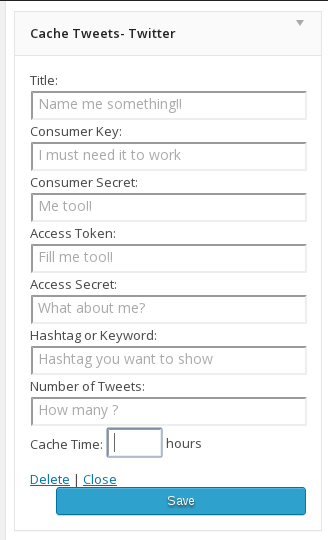
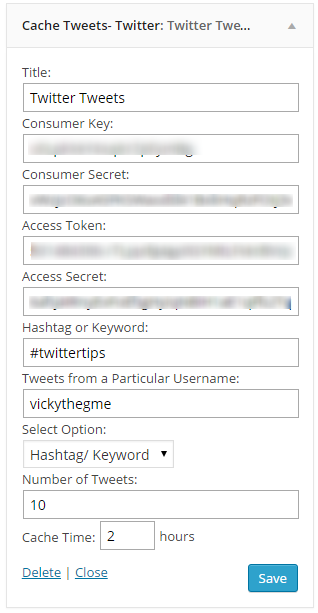
User Timeline Tweets Feature Added
git-svn-id: https://plugins.svn.wordpress.org/cache-tweets-widget/trunk@1186093 b8457f37-d9ea-0310-8a92-e5e31aec5664

Changed region(s): [[0.0566, 0.0, 0.9906, 1.0], [0.0, 0.0, 0.0283, 0.9778], [0.9057, 0.0296, 0.934, 0.0593]]

diff --git a/css/vistyle.css b/css/vistyle.css
@@ -13,12 +13,9 @@ a.vip {
 }
 a.vip:hover{
 	color:#890000;
-	opacity : 3;
-	zoom:1.2;
-	
+	opacity : 3;	
 }
 .viname:hover {
-	zoom:1.2;
 	color:#4F270B;
 	opacity : 1.6;
 	

diff --git a/widget.php b/widget.php
@@ -14,111 +14,133 @@ class vitweet_widget extends WP_Widget {
 /**
 	 * Register widget with WordPress.
 	 */
-	function __construct() {
-		parent::__construct(
+function __construct() {
+	parent::__construct(
 			'visearch_tweets_widget', // Base ID
 			__('Cache Tweets- Twitter', 'text_domain'), // Name
 			array( 'description' => __( 'Tweets widget that gets the tweets from the search api with hashtags', 'text_domain' ), ) // Args
+			);
+}
+
+function vitweet_widget() {
+	$widget_ops = array( 'classname' => 'search_tweets_widget', 'description' => 'Tweets widget that gets the tweets from the search api with hashtags' );
+	$control_ops = array( 'width' => 200, 'height' => 250, 'id_base' => 'vitweet_wid' );
+	$this->WP_Widget( 'Swidget_class', 'Cache Tweets- Twitter', $widget_ops, $control_ops );
+}
+
+function widget( $args, $instance ) {
+	extract( $args );
+	$consumer_key = $instance['viconsumer_key'];
+	$consumer_secret = $instance['viconsumer_secret'];
+	$oauth_token = $instance['viaccess_token'];
+	$oauth_secret = $instance['viaccess_secret'];
+	$hashtag = $instance['vihashtags'];
+	$username= $instance['viusername'];
+	$select_option= $instance['viselect_option'];
+	$count = $instance['vicount'];
+	$vicache = $instant['vicache'];
+	echo $before_widget;
+
+	$title = apply_filters('widget_title', $instance['title'] );
+	if ( $title ) {
+		echo $before_title . $title . $after_title;
+	}
+	$visearch_tweets_cache = get_option('visearch_tweets_cache');
+	$visearch_tweets_hashtag = get_option('visearch_tweets_hashtag');
+	$visearch_tweets_username = get_option('visearch_tweets_username');
+	$visearch_tweets_select_option = get_option('visearch_tweets_select_option');
+	$visearch_tweets_userkey = get_option('widget_visearch_tweets_widget');
+	$visearch_tweets_details = get_option('visearch_tweets_details');
+	$timechange = time() - $visearch_tweets_cache;
+	$realtime = $instance['vicache'] * 3600;
+	if($timechange >= $realtime || empty($visearch_tweets_cache) || $visearch_tweets_hashtag != $hashtag || $visearch_tweets_username != $username ||  $visearch_tweets_select_option != $select_option ||$visearch_tweets_userkey != $visearch_tweets_details){
+		createconnection($consumer_key, $consumer_secret, $oauth_token, $oauth_secret, $hashtag, $username, $select_option, $count,$vicache);
+	}
+	else {
+		vi_cache_unserialize_show(get_option('visearch_tweets'));
+	}
+	echo $after_widget;
+
+}
+
+function update( $new_instance, $old_instance ) {
+	$instance = array();
+	$instance['title'] = ( ! empty( $new_instance['title'] ) ) ? strip_tags( $new_instance['title'] ) : '';
+	$instance['viconsumer_key'] = ( ! empty( $new_instance['viconsumer_key'] ) ) ? strip_tags( $new_instance['viconsumer_key'] ) : '';
+	$instance['viconsumer_secret'] = ( ! empty( $new_instance['viconsumer_secret'] ) ) ? strip_tags( $new_instance['viconsumer_secret'] ) : '';
+	$instance['viaccess_token'] = ( ! empty( $new_instance['viaccess_token'] ) ) ? strip_tags( $new_instance['viaccess_token'] ) : '';
+	$instance['viaccess_secret'] = ( ! empty( $new_instance['viaccess_secret'] ) ) ? strip_tags( $new_instance['viaccess_secret'] ) : '';
+	$instance['vihashtags'] = ( ! empty( $new_instance['vihashtags'] ) ) ? strip_tags( $new_instance['vihashtags'] ) : '';
+	$instance['viusername'] = ( ! empty( $new_instance['viusername'] ) ) ? strip_tags( $new_instance['viusername'] ) : '';
+	$instance['viselect_option'] = ( ! empty( $new_instance['viselect_option'] ) ) ? strip_tags( $new_instance['viselect_option'] ) : '';
+	$instance['vicount'] = ( ! empty( $new_instance['vicount'] ) ) ? strip_tags( $new_instance['vicount'] ) : '';
+	$instance['vicache'] = ( ! empty( $new_instance['vicache'] ) ) ? strip_tags( $new_instance['vicache'] ) : '';
+	return $instance;
+}
+
+function form( $instance ) {
+	$defaults = array( 
+		'title' 		=> '', 
+		'viconsumer_key' => '',
+		'viconsumer_secret' => '',
+		'viaccess_token' => '',
+		'viaccess_secret' => "",
+		'vihashtags' =>  '',
+		'viusername' =>  '',
+		'viselect_option' =>  '',
+		'vicount' => '',
+		'vicache' => ''
 		);
-	}
+	$instance = wp_parse_args( (array) $instance, $defaults );
+	?>
+	<p>
+		<label for="<?php echo $this -> get_field_id('title'); ?>"><?php _e("Title"); ?>:
+		</label>
+		<input id="<?php echo $this -> get_field_id('title'); ?>" name="<?php echo $this -> get_field_name('title'); ?>" value="<?php echo $instance['title']; ?>" placeholder="Name me something!!" style="width:100%;" />
+		<label for="<?php echo $this -> get_field_id('viconsumer_key'); ?>"><?php _e("Consumer Key"); ?>:
+		</label>
+		<input id="<?php echo $this -> get_field_id('viconsumer_key'); ?>" name="<?php echo $this -> get_field_name('viconsumer_key'); ?>" value="<?php echo $instance['viconsumer_key']; ?>" placeholder="I must need it to work" style="width: 100%;" required />
+		<label for="<?php echo $this -> get_field_id('viconsumer_secret'); ?>"><?php _e("Consumer Secret"); ?>:
+		</label>
+		<input id="<?php echo $this -> get_field_id('viconsumer_secret'); ?>" name="<?php echo $this -> get_field_name('viconsumer_secret'); ?>" value="<?php echo $instance['viconsumer_secret']; ?>" placeholder="Me too!!" style="width: 100%;" required/>
+		<label for="<?php echo $this -> get_field_id('viaccess_token'); ?>"><?php _e("Access Token"); ?>:
+		</label>
+		<input id="<?php echo $this -> get_field_id('viaccess_token'); ?>" name="<?php echo $this -> get_field_name('viaccess_token'); ?>" value="<?php echo $instance['viaccess_token']; ?>" placeholder="Fill me too!!" style="width: 100%;" required/>
+		<label for="<?php echo $this -> get_field_id('viaccess_secret'); ?>"><?php _e("Access Secret"); ?>:
+		</label>
+		<input id="<?php echo $this -> get_field_id('viaccess_secret'); ?>" name="<?php echo $this -> get_field_name('viaccess_secret'); ?>" value="<?php echo $instance['viaccess_secret']; ?>" placeholder="What about me?" style="width: 100%;" required/>
 
-	function vitweet_widget() {
-		$widget_ops = array( 'classname' => 'search_tweets_widget', 'description' => 'Tweets widget that gets the tweets from the search api with hashtags' );
-		$control_ops = array( 'width' => 200, 'height' => 250, 'id_base' => 'vitweet_wid' );
-		$this->WP_Widget( 'Swidget_class', 'Cache Tweets- Twitter', $widget_ops, $control_ops );
-	}
+		<label for="<?php echo $this -> get_field_id('vihashtags'); ?>"><?php _e("Hashtag or Keyword"); ?>:
+		</label>
+		<input id="<?php echo $this -> get_field_id('vihashtags'); ?>" name="<?php echo $this -> get_field_name('vihashtags'); ?>" value="<?php echo $instance['vihashtags']; ?>" placeholder="Hashtag you want to show" style="width: 100%;" required />
 
-	function widget( $args, $instance ) {
-		extract( $args );
-		$consumer_key = $instance['viconsumer_key'];
-		$consumer_secret = $instance['viconsumer_secret'];
-		$oauth_token = $instance['viaccess_token'];
-		$oauth_secret = $instance['viaccess_secret'];
-		$hashtag = $instance['vihashtags'];
-		$count = $instance['vicount'];
-		$vicache = $instant['vicache'];
-		echo $before_widget;
+		<label for="<?php echo $this -> get_field_id('viusername'); ?>"><?php _e("Tweets from a Particular Username"); ?>:
+		</label>
+		<input id="<?php echo $this -> get_field_id('viusername'); ?>" name="<?php echo $this -> get_field_name('viusername'); ?>" value="<?php echo $instance['viusername']; ?>" placeholder="Twitter Username without @" style="width: 100%;" required />
 		
-		$title = apply_filters('widget_title', $instance['title'] );
-		if ( $title ) {
-			echo $before_title . $title . $after_title;
-		}
-		$visearch_tweets_cache = get_option('visearch_tweets_cache');
-		$visearch_tweets_hashtag = get_option('visearch_tweets_hashtag');
-		$visearch_tweets_userkey = get_option('widget_visearch_tweets_widget');
-		$visearch_tweets_details = get_option('visearch_tweets_details');
-		$timechange = time() - $visearch_tweets_cache;
-		$realtime = $instance['vicache'] * 3600;
-		if($timechange >= $realtime || empty($visearch_tweets_cache) || $visearch_tweets_hashtag != $hashtag || $visearch_tweets_userkey != $visearch_tweets_details){
-		createconnection($consumer_key, $consumer_secret, $oauth_token, $oauth_secret, $hashtag, $count,$vicache);
-		}
-		else {
-			vi_cache_unserialize_show(get_option('visearch_tweets'));
-		}
-		echo $after_widget;
+		<label for="<?php echo $this -> get_field_id('viselect_option'); ?>"><?php _e("Select Option"); ?>:
+		</label>
+		<br>
+		<select name="<?php echo $this -> get_field_name('viselect_option'); ?>" id="<?php echo $this -> get_field_id('viselect_option'); ?>" required>
+			<option value="1" <?php selected('1', $instance['viselect_option']); ?>>Hashtag/ Keyword</option>
+			<option value="2" <?php selected('2', $instance['viselect_option']); ?>>Username</option>
+		</select>
+		<br>
+		<label for="<?php echo $this -> get_field_id('vicount'); ?>"><?php _e("Number of Tweets"); ?>:
+		</label>
+		<input id="<?php echo $this -> get_field_id('vicount'); ?>" name="<?php echo $this -> get_field_name('vicount'); ?>" value="<?php echo $instance['vicount']; ?>" placeholder="How many ?"style="width: 100%;" />
 		
-	}
-
-	function update( $new_instance, $old_instance ) {
-		$instance = array();
-		$instance['title'] = ( ! empty( $new_instance['title'] ) ) ? strip_tags( $new_instance['title'] ) : '';
-		$instance['viconsumer_key'] = ( ! empty( $new_instance['viconsumer_key'] ) ) ? strip_tags( $new_instance['viconsumer_key'] ) : '';
-		$instance['viconsumer_secret'] = ( ! empty( $new_instance['viconsumer_secret'] ) ) ? strip_tags( $new_instance['viconsumer_secret'] ) : '';
-		$instance['viaccess_token'] = ( ! empty( $new_instance['viaccess_token'] ) ) ? strip_tags( $new_instance['viaccess_token'] ) : '';
-		$instance['viaccess_secret'] = ( ! empty( $new_instance['viaccess_secret'] ) ) ? strip_tags( $new_instance['viaccess_secret'] ) : '';
-		$instance['vihashtags'] = ( ! empty( $new_instance['vihashtags'] ) ) ? strip_tags( $new_instance['vihashtags'] ) : '';
-		$instance['vicount'] = ( ! empty( $new_instance['vicount'] ) ) ? strip_tags( $new_instance['vicount'] ) : '';
-		$instance['vicache'] = ( ! empty( $new_instance['vicache'] ) ) ? strip_tags( $new_instance['vicache'] ) : '';
-		return $instance;
-	}
-
-	function form( $instance ) {
-		$defaults = array( 
-			'title' 		=> '', 
-			'viconsumer_key' => '',
-			'viconsumer_secret' => '',
-			'viaccess_token' => '',
-			'viaccess_secret' => "",
-			'vihashtags' =>  '',
-			'vicount' => '',
-			'vicache' => ''
-		);
-		$instance = wp_parse_args( (array) $instance, $defaults );
-?>
-<p>
-	<label for="<?php echo $this -> get_field_id('title'); ?>"><?php _e("Title"); ?>:
-	</label>
-	<input id="<?php echo $this -> get_field_id('title'); ?>" name="<?php echo $this -> get_field_name('title'); ?>" value="<?php echo $instance['title']; ?>" placeholder="Name me something!!" style="width:100%;" />
-	<label for="<?php echo $this -> get_field_id('viconsumer_key'); ?>"><?php _e("Consumer Key"); ?>:
-	</label>
-	<input id="<?php echo $this -> get_field_id('viconsumer_key'); ?>" name="<?php echo $this -> get_field_name('viconsumer_key'); ?>" value="<?php echo $instance['viconsumer_key']; ?>" placeholder="I must need it to work" style="width: 100%;" required />
-	<label for="<?php echo $this -> get_field_id('viconsumer_secret'); ?>"><?php _e("Consumer Secret"); ?>:
-	</label>
-	<input id="<?php echo $this -> get_field_id('viconsumer_secret'); ?>" name="<?php echo $this -> get_field_name('viconsumer_secret'); ?>" value="<?php echo $instance['viconsumer_secret']; ?>" placeholder="Me too!!" style="width: 100%;" required/>
-	<label for="<?php echo $this -> get_field_id('viaccess_token'); ?>"><?php _e("Access Token"); ?>:
-	</label>
-	<input id="<?php echo $this -> get_field_id('viaccess_token'); ?>" name="<?php echo $this -> get_field_name('viaccess_token'); ?>" value="<?php echo $instance['viaccess_token']; ?>" placeholder="Fill me too!!" style="width: 100%;" required/>
-	<label for="<?php echo $this -> get_field_id('viaccess_secret'); ?>"><?php _e("Access Secret"); ?>:
-	</label>
-	<input id="<?php echo $this -> get_field_id('viaccess_secret'); ?>" name="<?php echo $this -> get_field_name('viaccess_secret'); ?>" value="<?php echo $instance['viaccess_secret']; ?>" placeholder="What about me?" style="width: 100%;" required/>
-
-	<label for="<?php echo $this -> get_field_id('vihashtags'); ?>"><?php _e("Hashtag or Keyword"); ?>:
-	</label>
-	<input id="<?php echo $this -> get_field_id('vihashtags'); ?>" name="<?php echo $this -> get_field_name('vihashtags'); ?>" value="<?php echo $instance['vihashtags']; ?>" placeholder="Hashtag you want to show" style="width: 100%;" required />
-	<label for="<?php echo $this -> get_field_id('vicount'); ?>"><?php _e("Number of Tweets"); ?>:
-	</label>
-	<input id="<?php echo $this -> get_field_id('vicount'); ?>" name="<?php echo $this -> get_field_name('vicount'); ?>" value="<?php echo $instance['vicount']; ?>" placeholder="How many ?"style="width: 100%;" />
-	<label for="<?php echo $this -> get_field_id('vicache'); ?>"><?php _e("Cache Time"); ?>:
-	</label>
-	<input id="<?php echo $this -> get_field_id('vicache'); ?>" name="<?php echo $this -> get_field_name('vicache'); ?>" value="<?php echo $instance['vicache']; ?>"  style="width:20%" />
-	hours
-</p>
-<?php
+		<label for="<?php echo $this -> get_field_id('vicache'); ?>"><?php _e("Cache Time"); ?>:
+		</label>
+		<input id="<?php echo $this -> get_field_id('vicache'); ?>" name="<?php echo $this -> get_field_name('vicache'); ?>" value="<?php echo $instance['vicache']; ?>"  style="width:20%" />
+		hours
+	</p>
+	<?php
 }
 }
 
 function func_vicache_widget() {
-register_widget( 'vitweet_widget' );
+	register_widget( 'vitweet_widget' );
 }
 
 add_action( 'widgets_init', 'func_vicache_widget' );
@@ -130,7 +152,7 @@ add_action( 'wp_enqueue_scripts', 'register_plugin_vistyles' );
 * Register style sheet.
 */
 function register_plugin_vistyles() {
-wp_register_style( 'vicache-tweets', plugins_url( 'cache-tweets-widget/css/vistyle.css' ) );
-wp_enqueue_style( 'vicache-tweets' );
+	wp_register_style( 'vicache-tweets', plugins_url( 'cache-tweets-widget/css/vistyle.css' ) );
+	wp_enqueue_style( 'vicache-tweets' );
 }
 ?>

diff --git a/tweet.php b/tweet.php
@@ -1,15 +1,21 @@
 <?php
 //function to create the connection string to twitter with the api v 1.1
 
-function createconnection($consumer_key, $consumer_secret, $oauth_token, $oauth_secret, $hashtag, $count, $vicache) {
+function createconnection($consumer_key, $consumer_secret, $oauth_token, $oauth_secret, $hashtag, $username, $select_option, $count, $vicache) {
 	$connection = new TwitterOAuth($consumer_key, $consumer_secret, $oauth_token, $oauth_secret);
-	$content = $connection -> get('search/tweets', array('q' => $hashtag, 'count' => $count));
+	if($select_option == 1) {
+		$content = $connection -> get('search/tweets', array('q' => $hashtag, 'count' => $count));
+	} elseif($select_option == 2) {
+		$content = $connection -> get('statuses/user_timeline', array('screen_name' => $username, 'count' => $count));
+	}
 	$content = json_encode($content, true);
 	$content = json_decode($content);
 	$visearch_tweets_userkey = get_option('widget_visearch_tweets_widget');
 	update_option('visearch_tweets', serialize($content));
 	update_option('visearch_tweets_cache', time());
 	update_option('visearch_tweets_hashtag', $hashtag);
+	update_option('visearch_tweets_username', $username);
+	update_option('visearch_tweets_select_option', $select_option);
 	update_option('visearch_tweets_details', $visearch_tweets_userkey);
 	vi_cache_unserialize_show(get_option('visearch_tweets'));
 }
@@ -20,19 +26,41 @@ function createconnection($consumer_key, $consumer_secret, $oauth_token, $oauth_
 function vi_cache_unserialize_show($visearch_tweets) {
 	$visearch_tweets = maybe_unserialize($visearch_tweets);
 	if (!empty($visearch_tweets)) {
+		$select_option = get_option('visearch_tweets_select_option' );
 		echo "<div class='vicontainer'>";
-		if ($visearch_tweets -> errors != '') {
-			echo "<p>You just might have used wrong Credential or may be left something blank somewhere. Try again with correct Credential details.</p>";
-		} else {
-			foreach ($visearch_tweets->statuses as $tweet) {
-				$created_at_date = substr($tweet -> created_at, 4, 7);
-				$created_at_time = substr($tweet -> created_at, 11, 5);
-				echo "<b class='viname'><a href='http://twitter.com/" . $tweet -> user -> screen_name . "' target='_blank'>@{$tweet->user->screen_name}</a></b>";
-				echo "<p><a href='http://twitter.com/" . $tweet -> user -> screen_name . "/status/" . $tweet -> id_str . "' class='vip' target='_blank'>{$tweet->text}";
-				echo "</br><span style='float:right'>" . $created_at_date . ",&nbsp;" . $created_at_time . "</span></a></p>";
+		if($select_option == 1) {
+			if ($visearch_tweets -> errors != '') {
+				echo "<p>You just might have used wrong Credential or may be left something blank somewhere. Try again with correct Credential details.</p>";
+			} else {
+				if(count($visearch_tweets->statuses) == null) {
+					echo "There are no Tweets related to the hashtag/ keyword you entered at this time";
+				} else {
+					foreach ($visearch_tweets->statuses as $tweet) {
+						$created_at_date = substr($tweet -> created_at, 4, 7);
+						$created_at_time = substr($tweet -> created_at, 11, 5);
+						echo "<b class='viname'><a href='http://twitter.com/" . $tweet -> user -> screen_name . "' target='_blank'>@{$tweet->user->screen_name}</a></b>";
+						echo "<p><a href='http://twitter.com/" . $tweet -> user -> screen_name . "/status/" . $tweet -> id_str . "' class='vip' target='_blank'>{$tweet->text}";
+						echo "</br><span style='float:right'>" . $created_at_date . ",&nbsp;" . $created_at_time . "</span></a></p>";
+					}
+				}
+
 			}
-			echo "</div>";
+		} elseif($select_option == 2) {
+			if ($visearch_tweets -> errors != '') {
+				echo "<p>You just might have used wrong Credential or may be wrong username somewhere. Try again with correct Credential details.</p>";
+			} else {
+				for ($i=0; $i < count($visearch_tweets); $i++) { 
+					$created_at_date = substr($visearch_tweets[$i] -> created_at, 4, 7);
+					$created_at_time = substr($visearch_tweets[$i] -> created_at, 11, 5);
+					echo "<b class='viname'><a href='http://twitter.com/" . $visearch_tweets[$i] -> user -> screen_name . "' target='_blank'>@{$visearch_tweets[$i]->user->screen_name}</a></b>";
+					echo "<p><a href='http://twitter.com/" . $visearch_tweets[$i] -> user -> screen_name . "/status/" . $visearch_tweets[$i] -> id_str . "' class='vip' target='_blank'>{$visearch_tweets[$i]->text}";
+					echo "</br><span style='float:right'>" . $created_at_date . ",&nbsp;" . $created_at_time . "</span></a></p>";
+				}
+			}
 		}
+		
+		echo "</div>";
+		
 	}
 }
 
